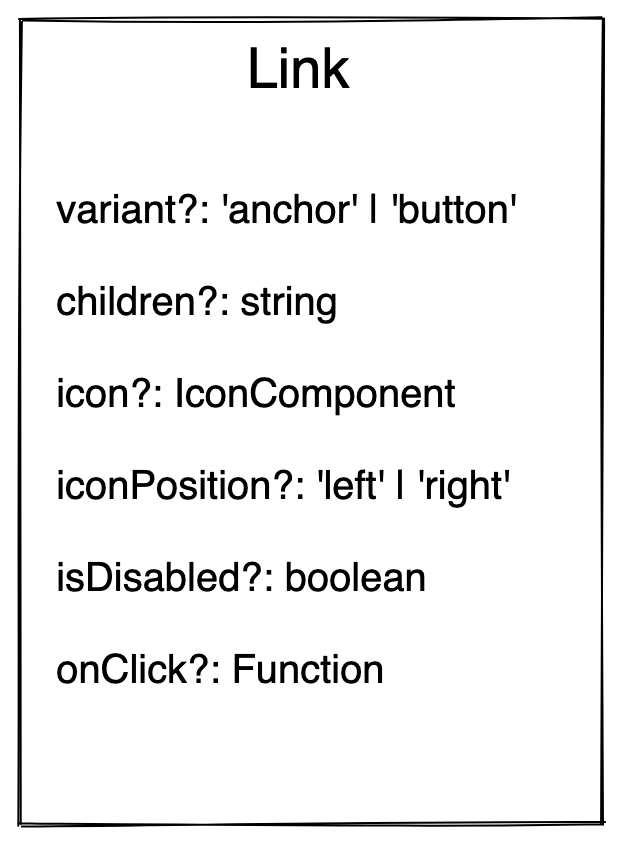
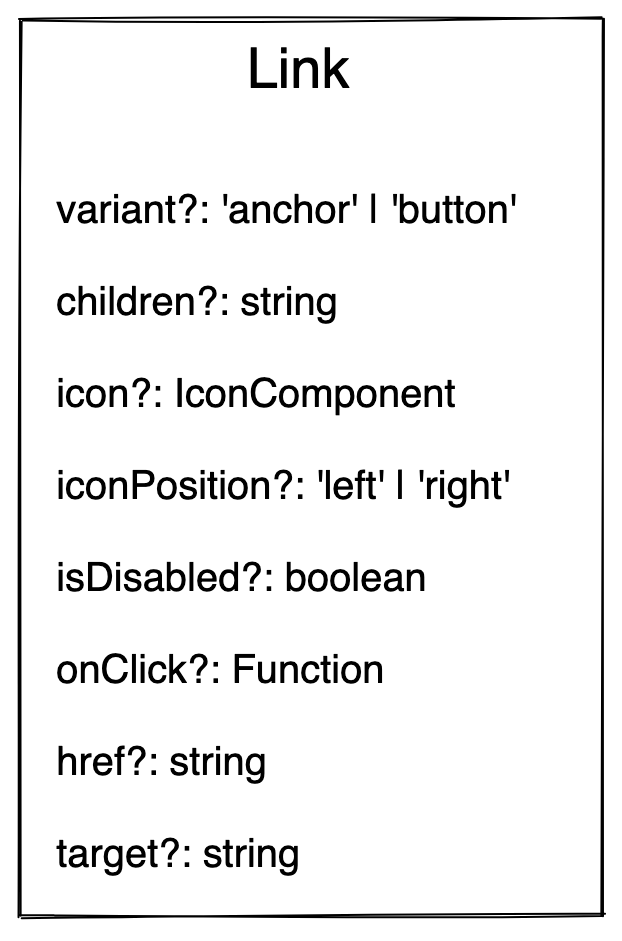
chore: update API

diff --git a/packages/blade/src/components/Link/_decisions/decisions.md b/packages/blade/src/components/Link/_decisions/decisions.md
@@ -16,13 +16,14 @@ A Link component that can act as a `<button>` as well as an `<anchor>` element
 
 | Prop | Type | Required | Default | Description |
 |---|---|---|---|---|
-| variant | `anchor`, `button` | No | `anchor` | The variant of the Link to be rendered.<br><br>Note: `button` will look like an inline Link component(no spacing; can be rendered alongside other text) but will be rendered as a `button` element |
-| children | `string` | No | undefined | The text to be rendered within the link. |
-| icon | `Icon` | No | undefined | The Blade `Icon` component to be rendered within the link. |
-| iconPosition | `left`, `right` | No | `right` | The position of the rendered icon. |
-| isDisabled | `boolean` | No | `false` | Control whether the link is disabled or not. |
+| variant | `anchor`, `button` | *No* | `anchor` | The variant of the Link to be rendered.<br><br>Note: `button` will look like an inline Link component (no spacing; can be rendered alongside other text) but will be rendered as a `button` element. |
+| children | `string` | When `icon` is passed: *No*<br>When `icon` is not passed: *Yes*   | undefined | The text to be rendered within the link. |
+| icon | `Icon` | When `children` is passed: *No*<br>When `children` is not passed: *Yes* | undefined | The Blade `Icon` component to be rendered within the link. |
+| iconPosition | `left`, `right` | *No* | `right` | The position of the rendered icon. |
+| isDisabled | `boolean` | *No* | `false` | Control whether the link is disabled or not.<br><br>Note: This prop is only valid for `button` variant. |
 | onClick | `Function` | No | undefined | The function to be called when the link is clicked. |
-| href | `string` | No | undefined | The href for the link component.<br><br>Note: This will be ignored when the variant is `button` |
+| href | `string` | No | undefined | The href for the link component.<br><br>Note: This prop is only valid for `anchor` variant. |
+| target | `string` | No | undefined | The target for the link component.<br><br>Note: This prop is only valid for `anchor` variant. |
 
      
 ## Component Breakdown
